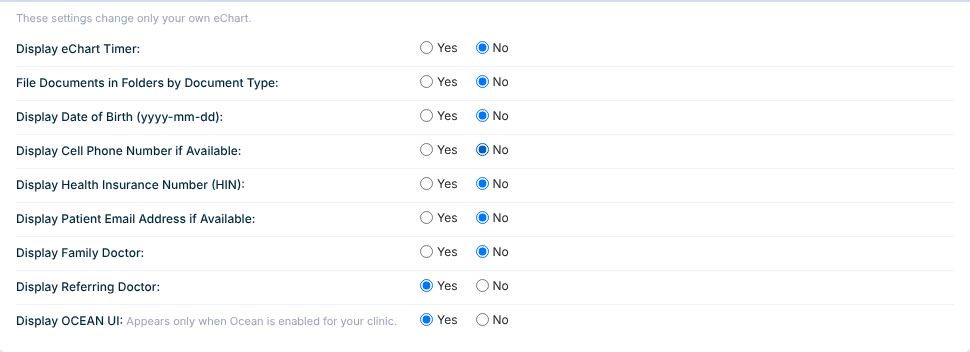
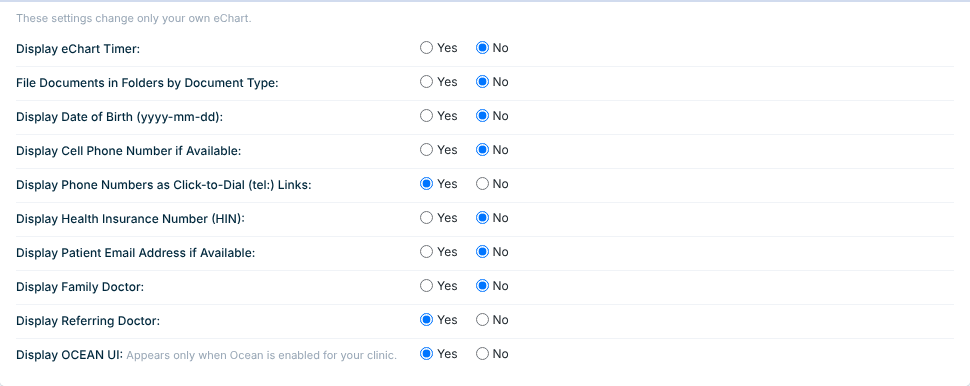
feat(echart): optional click-to-dial tel: links for header phone numbers
Adds "Display Phone Numbers as Click-to-Dial (tel:) Links" to
Preferences > eChart, after the cell-phone setting, defaulting to No
(property echart_phone_tel_links). When a provider turns it on, each phone
number in the eChart header bar is an <a href="tel:..."> link instead of a
copy button, so a click dials through the workstation's softphone or calling
app. Ids, icons and tooltips are unchanged; with no alternate number the
tooltip reads "Click to call".

EchartHeaderViewModel.Phone#telHref() builds the URI from the digits only,
keeps a leading +, drops the trailing * preferred mark, and passes an
extension typed as x123 / ext 123 / #123 as RFC 3966 ;ext=123 rather than
running it into the number.

The header's three phone blocks now share one button/link block. Unit,
JSP contract and Playwright checks cover the default (copy buttons) and the
flipped state (tel: link); labels are translated in all five bundles.

Part of #852 (the eChart header; the issue's other pages are not changed).

Claude-Session: https://claude.ai/code/session_014BbsKagGKuC9e9uVzXp5Sg

diff --git a/scripts/echart-display-preferences-playwright-checks.js b/scripts/echart-display-preferences-playwright-checks.js
@@ -20,13 +20,14 @@
  * reads the eChart section's defaults, opens the chart and asserts what each default shows, flips
  * every setting with the Yes/No radios and Save All, reads the rows back from the database, and opens
  * the chart again to assert that every surface followed: the header bar (date of birth or age, HIN,
- * cell or home phone, email), the note panel's timer, the Family Doctor and Referring Doctor panels at
- * the top of the left column, the Documents panel's folders, and the Ocean toolbar placeholder. It also
- * proves a GET carrying the settings is refused and changes nothing.
+ * cell or home phone, copy button or tel: click-to-dial link, email), the note panel's timer, the
+ * Family Doctor and Referring Doctor panels at the top of the left column, the Documents panel's
+ * folders, and the Ocean toolbar placeholder. It also proves a GET carrying the settings is refused
+ * and changes nothing.
  *
  * OWNED STATE. The FAKE-PW patient (runWorkflow) gets a HIN, phones, an email, a Referral Doctor, a
  * Family Doctor contact and two documents of different types; all are removed with it. The test
- * login's own nine eChart display rows are snapshotted first and restored exactly (ids included) in
+ * login's own eChart display rows are snapshotted first and restored exactly (ids included) in
  * cleanup, so a run leaves the provider's choices as it found them. Because those rows belong to the
  * shared test login, the check must not run beside another chart check.
  *
@@ -188,6 +189,9 @@ async function workflow(s) {
     h.assert((await page.locator('#patient-cell-phone').getAttribute('title')).includes(PATIENT.home),
       'The cell phone does not offer the home number as its tooltip');
     h.assert(await page.locator('#patient-phone').count() === 0, 'The header shows the home phone although a cell is preferred');
+    h.assert(await page.locator('#patient-cell-phone').evaluate((el) => el.tagName) === 'BUTTON'
+      && await page.locator('#header-top-row a[href^="tel:"]').count() === 0,
+    'The header phone is a tel: link although click-to-dial is off by default');
     h.assert(await text(page, '#patient-email') === PATIENT.email, 'The header does not show the email address');
     h.assert(await page.locator('#header a[href*="ViewCalculators"]').count() === 1, 'The header must offer exactly one calculators link');
     h.assert(await page.locator('#aTimer').count() === 1, 'The note panel has no timer with the timer on');
@@ -246,6 +250,9 @@ async function workflow(s) {
     h.assert((await text(page, '#patient-phone')).includes(PATIENT.home), 'The header does not fall back to the home phone');
     h.assert((await page.locator('#patient-phone').getAttribute('title')).includes(PATIENT.cell), 'The home phone does not offer the cell as its tooltip');
     h.assert(await page.locator('#patient-cell-phone').count() === 0, 'The header still shows the cell phone with it turned off');
+    h.assert(await page.locator('#patient-phone').evaluate((el) => el.tagName) === 'A'
+      && await page.locator('#patient-phone').getAttribute('href') === `tel:${PATIENT.home.replace(/\D/g, '')}`,
+    'The home phone is not a tel: click-to-dial link with click-to-dial turned on');
     h.assert(await page.locator('#patient-email, #patient-email-link').count() === 0, 'The header still shows the email with it turned off');
     h.assert(await page.locator('#aTimer, #toggleTimer').count() === 0, 'The note panel still shows the timer with it turned off');
     h.assert(await page.locator('#fDoc').count() === 0, 'The Family Doctor panel still shows with it turned off');

diff --git a/scripts/admin-fragment-navigation.test.js b/scripts/admin-fragment-navigation.test.js
@@ -75,9 +75,14 @@ test('calculator header navigation keeps patient attributes out of both popup an
 test('encounter copy controls use native non-submitting buttons for keyboard activation', () => {
   const source = fs.readFileSync(path.join(__dirname,
     '../src/main/webapp/WEB-INF/jsp/casemgmt/newEncounterHeader.jsp'), 'utf8');
-  for (const id of ['patient-hin', 'patient-phone', 'patient-cell-phone', 'patient-email']) {
+  // Phones share one copy button whose id comes from the phone's kind (patient-phone, patient-cell-phone,
+  // patient-work-phone); unless the provider turned on click-to-dial links, that button is what renders.
+  const phoneIds = [...source.matchAll(/<c:set var="phoneId" value="([^"]+)"\/>/g)].map((match) => match[1]);
+  assert.deepEqual(phoneIds.sort(), ['patient-cell-phone', 'patient-phone', 'patient-work-phone']);
+  const ids = { 'patient-hin': 'patient-hin', 'patient-email': 'patient-email', phone: '\\$\\{carlos:forHtmlAttribute\\(phoneId\\)\\}' };
+  for (const [label, id] of Object.entries(ids)) {
     const tag = source.match(new RegExp('<button[^>]*id="' + id + '"[^>]*>'));
-    assert.ok(tag, `Missing native copy button: ${id}`);
+    assert.ok(tag, `Missing native copy button: ${label}`);
     assert.match(tag[0], /type="button"/, 'Copy must never submit the surrounding form');
     assert.match(tag[0], /onclick="copyToClip\(/, 'Native keyboard activation must invoke the copy handler');
     assert.doesNotMatch(tag[0], /onkey(?:down|up)=/, 'Use native Enter/Space behavior without duplicate activation');

diff --git a/scripts/lib/echart-display-preferences.js b/scripts/lib/echart-display-preferences.js
@@ -13,12 +13,13 @@
  */
 const h = require('./playwright-harness');
 
-/** In the order the Preferences page lists them, with the defaults the alpha tester asked for. */
+/** In the order the Preferences page lists them, with the defaults the alpha tester asked for (click-to-dial: issue #852). */
 const ECHART_DISPLAY_SETTINGS = Object.freeze([
   { name: 'echart_show_timer', defaultValue: true },
   { name: 'echart_show_group_document_by_type', defaultValue: true },
   { name: 'echart_show_DOB', defaultValue: true },
   { name: 'echart_show_cell', defaultValue: true },
+  { name: 'echart_phone_tel_links', defaultValue: false },
   { name: 'echart_show_HIN', defaultValue: true },
   { name: 'echart_email_indicator', defaultValue: true },
   { name: 'echart_show_fam_doc_widget', defaultValue: true },
@@ -33,7 +34,7 @@ const NAME = /^[A-Za-z0-9_]+$/;
  *
  * @param {object} sql   the harness SQL runner
  * @param {string} provider the provider_no whose rows are touched
- * @param {string[]} [names] the settings in scope (default: all nine)
+ * @param {string[]} [names] the settings in scope (default: all of them)
  * @returns {{ snapshot: Array, restore: Function, clear: Function, set: Function, value: Function }}
  */
 function providerEchartDisplayRows(sql, provider, names = ECHART_DISPLAY_SETTINGS.map((setting) => setting.name)) {

diff --git a/src/test/java/io/github/carlos_emr/carlos/encounter/display/EchartDisplayPreferenceUnitTest.java b/src/test/java/io/github/carlos_emr/carlos/encounter/display/EchartDisplayPreferenceUnitTest.java
@@ -53,19 +53,20 @@ class EchartDisplayPreferenceUnitTest extends CarlosUnitTestBase {
     class Definitions {
 
         @Test
-        @DisplayName("should list the nine settings in the Preferences page order with OSCAR 19 key names")
+        @DisplayName("should list the settings in the Preferences page order with OSCAR 19 key names, click-to-dial after the cell")
         void shouldListSettings_inPreferencesPageOrder() {
             assertThat(Arrays.stream(EchartDisplayPreference.values()).map(EchartDisplayPreference::propertyName))
                     .containsExactly("echart_show_timer", "echart_show_group_document_by_type", "echart_show_DOB",
-                            "echart_show_cell", "echart_show_HIN", "echart_email_indicator",
+                            "echart_show_cell", "echart_phone_tel_links", "echart_show_HIN", "echart_email_indicator",
                             "echart_show_fam_doc_widget", "echart_show_ref_doc_widget", "echart_show_ocean");
         }
 
         @Test
-        @DisplayName("should default to on except for the Referring Doctor panel and Ocean")
-        void shouldDefaultToOn_exceptReferringDoctorAndOcean() {
+        @DisplayName("should default to on except for click-to-dial phone links, the Referring Doctor panel and Ocean")
+        void shouldDefaultToOn_exceptTelLinksReferringDoctorAndOcean() {
             for (EchartDisplayPreference preference : EchartDisplayPreference.values()) {
-                boolean expected = preference != EchartDisplayPreference.SHOW_REFERRING_DOCTOR
+                boolean expected = preference != EchartDisplayPreference.PHONE_TEL_LINKS
+                        && preference != EchartDisplayPreference.SHOW_REFERRING_DOCTOR
                         && preference != EchartDisplayPreference.SHOW_OCEAN;
                 assertThat(preference.defaultValue()).as(preference.name()).isEqualTo(expected);
             }
@@ -121,6 +122,7 @@ class EchartDisplayPreferenceUnitTest extends CarlosUnitTestBase {
             assertThat(preferences.groupDocumentsByType()).isTrue();
             assertThat(preferences.showDob()).isTrue();
             assertThat(preferences.showCell()).isTrue();
+            assertThat(preferences.phoneTelLinks()).isFalse();
             assertThat(preferences.showHin()).isTrue();
             assertThat(preferences.showEmail()).isTrue();
             assertThat(preferences.showFamilyDoctor()).isTrue();
@@ -136,6 +138,7 @@ class EchartDisplayPreferenceUnitTest extends CarlosUnitTestBase {
             stored.put("echart_show_DOB", "false");
             stored.put("echart_show_ref_doc_widget", "true");
             stored.put("echart_show_ocean", "true");
+            stored.put("echart_phone_tel_links", "true");
             stored.put("ProviderColour", "#123456");
 
             EchartDisplayPreferences preferences = EchartDisplayPreferences.fromStoredValues(stored);
@@ -144,6 +147,7 @@ class EchartDisplayPreferenceUnitTest extends CarlosUnitTestBase {
             assertThat(preferences.showDob()).isFalse();
             assertThat(preferences.showReferringDoctor()).isTrue();
             assertThat(preferences.showOcean()).isTrue();
+            assertThat(preferences.phoneTelLinks()).isTrue();
             assertThat(preferences.showHin()).isTrue();
         }
 

diff --git a/src/test/java/io/github/carlos_emr/carlos/encounter/display/EchartHeaderViewModelAssemblerUnitTest.java b/src/test/java/io/github/carlos_emr/carlos/encounter/display/EchartHeaderViewModelAssemblerUnitTest.java
@@ -33,6 +33,7 @@ import org.junit.jupiter.api.Nested;
 import org.junit.jupiter.api.Tag;
 import org.junit.jupiter.api.Test;
 import org.junit.jupiter.params.ParameterizedTest;
+import org.junit.jupiter.params.provider.CsvSource;
 import org.junit.jupiter.params.provider.NullAndEmptySource;
 import org.junit.jupiter.params.provider.ValueSource;
 
@@ -263,6 +264,57 @@ class EchartHeaderViewModelAssemblerUnitTest extends CarlosUnitTestBase {
         EchartHeaderViewModel header = assembler.assemble(VIEWER, demographic, EchartDisplayPreferences.defaults(), Locale.CANADA);
 
         assertThat(header.emailConsented()).isTrue();
+    }
+
+    @Nested
+    @DisplayName("click-to-dial phone links")
+    class TelLinks {
+
+        @Test
+        @DisplayName("should leave phones as copy buttons by default")
+        void shouldKeepCopyButtons_withDefaultSettings() {
+            assertThat(assembler.assemble(VIEWER, patient(), EchartDisplayPreferences.defaults(), Locale.CANADA).phoneTelLinks())
+                    .isFalse();
+        }
+
+        @Test
+        @DisplayName("should make phones tel: links when the provider turns the setting on")
+        void shouldMakeTelLinks_whenSettingOn() {
+            EchartDisplayPreferences preferences = EchartDisplayPreferences.fromStoredValues(Map.of("echart_phone_tel_links", "true"));
+
+            EchartHeaderViewModel header = assembler.assemble(VIEWER, patient(), preferences, Locale.CANADA);
+
+            assertThat(header.phoneTelLinks()).isTrue();
+            assertThat(header.phones()).extracting(Phone::telHref).containsExactly("tel:9055550100");
+        }
+
+        @ParameterizedTest(name = "{0} -> {1}")
+        @CsvSource(delimiter = '|', value = {
+                "905-555-0199          | tel:9055550199",
+                "(905) 555-0199*       | tel:9055550199",
+                "+1 905 555 0199       | tel:+19055550199",
+                "905.555.0199 x123     | tel:9055550199;ext=123",
+                "905-555-0199 ext. 45  | tel:9055550199;ext=45",
+                "905-555-0199 Ext 7*   | tel:9055550199;ext=7",
+                "416-555-0123 #22      | tel:4165550123;ext=22",
+        })
+        @DisplayName("should dial only the digits, keep a leading +, and split off an extension")
+        void shouldBuildDialableUri_fromRecordedNumber(String number, String expected) {
+            assertThat(new Phone(PhoneKind.HOME, number, null, "").telHref()).isEqualTo(expected);
+        }
+
+        @ParameterizedTest
+        @ValueSource(strings = {"", "   ", "*", "unknown", "x"})
+        @DisplayName("should give no link when there is nothing to dial")
+        void shouldReturnEmpty_whenNoDigits(String number) {
+            assertThat(new Phone(PhoneKind.CELL, number, null, "").telHref()).isEmpty();
+        }
+
+        @Test
+        @DisplayName("should give no link for a missing number")
+        void shouldReturnEmpty_whenNumberNull() {
+            assertThat(new Phone(PhoneKind.WORK, null, null, "").telHref()).isEmpty();
+        }
     }
 
     @Nested

diff --git a/src/main/java/io/github/carlos_emr/carlos/encounter/display/EchartHeaderViewModel.java b/src/main/java/io/github/carlos_emr/carlos/encounter/display/EchartHeaderViewModel.java
@@ -24,6 +24,8 @@ package io.github.carlos_emr.carlos.encounter.display;
 import io.github.carlos_emr.carlos.utility.SafeEncode;
 
 import java.util.List;
+import java.util.regex.Matcher;
+import java.util.regex.Pattern;
 
 /**
  * What the eChart header bar ({@code casemgmt/newEncounterHeader.jsp}) shows for one patient and
@@ -50,6 +52,7 @@ import java.util.List;
  * @param hin              health insurance number, {@code ""} when hidden or not on file
  * @param hinVersion       its version code, {@code ""} when none
  * @param phones           the phone numbers to show, in display order; may be empty
+ * @param phoneTelLinks    whether each phone is a {@code tel:} click-to-dial link rather than a copy button
  * @param email            email address, {@code ""} when hidden or not on file
  * @param emailConsented   whether the patient consented to email for care (the address is then a mailto link)
  * @param nextAppointment  the next appointment date, {@code ""} when none is booked
@@ -71,6 +74,7 @@ public record EchartHeaderViewModel(
         String hin,
         String hinVersion,
         List<Phone> phones,
+        boolean phoneTelLinks,
         String email,
         boolean emailConsented,
         String nextAppointment) {
@@ -113,5 +117,36 @@ public record EchartHeaderViewModel(
      * @param alternateNumber that number, {@code ""} when none
      */
     public record Phone(PhoneKind kind, String number, PhoneKind alternateKind, String alternateNumber) {
+
+        /** A trailing extension as people type it: "x123", "ext 123", "ext. 123", "#123". */
+        private static final Pattern EXTENSION = Pattern.compile("(?i)(?:ext\\.?|x|#)\\s*(\\d+)$");
+
+        /**
+         * The {@code tel:} URI that dials {@link #number()}, still to be encoded for its HTML attribute.
+         *
+         * <p>Only digits survive, with a leading {@code +} kept, so spaces, dashes, brackets and the
+         * trailing {@code *} preferred mark drop out. An extension is split off as RFC 3966's
+         * {@code ;ext=} rather than run into the number, which would dial the wrong line.</p>
+         *
+         * @return the URI, or {@code ""} when the number has no digits to dial
+         */
+        public String telHref() {
+            String main = number == null ? "" : number.strip();
+            if (main.endsWith("*")) {
+                main = main.substring(0, main.length() - 1).strip();
+            }
+            String extension = "";
+            Matcher matcher = EXTENSION.matcher(main);
+            if (matcher.find()) {
+                extension = matcher.group(1);
+                main = main.substring(0, matcher.start());
+            }
+            String digits = main.replaceAll("\\D", "");
+            if (digits.isEmpty()) {
+                return "";
+            }
+            return "tel:" + (main.startsWith("+") ? "+" : "") + digits
+                    + (extension.isEmpty() ? "" : ";ext=" + extension);
+        }
     }
 }

diff --git a/src/main/java/io/github/carlos_emr/carlos/encounter/display/EchartDisplayPreference.java b/src/main/java/io/github/carlos_emr/carlos/encounter/display/EchartDisplayPreference.java
@@ -29,11 +29,13 @@ package io.github.carlos_emr.carlos.encounter.display;
  * personal choice: each provider sets them in the "eChart" section of their Preferences, and the
  * value lives in the {@code property} table under {@link #propertyName()} for that provider.
  * The property names deliberately reuse OSCAR 19's key names so a clinic migrating from OSCAR
- * recognizes them; the OLIS link key is out of scope and is not carried over.</p>
+ * recognizes them; the OLIS link key is out of scope and is not carried over. {@link #PHONE_TEL_LINKS}
+ * is CARLOS's own addition (issue #852) and has no OSCAR 19 key.</p>
  *
  * <p>A provider who has never saved the section gets {@link #defaultValue()}: everything on
- * except the Referring Doctor widget and the Ocean toolbar, which a provider has to opt in to.
- * Values are stored as {@code "true"}/{@code "false"}, matching OSCAR 19's radio values.</p>
+ * except click-to-dial phone links, the Referring Doctor widget and the Ocean toolbar, which a
+ * provider has to opt in to. Values are stored as {@code "true"}/{@code "false"}, matching OSCAR 19's
+ * radio values.</p>
  *
  * @since 2026-10-16
  */
@@ -50,6 +52,12 @@ public enum EchartDisplayPreference {
 
     /** Prefer the cell phone number over the home number in the header when one is on file. */
     SHOW_CELL("echart_show_cell", true),
+
+    /**
+     * Render the header's phone numbers as {@code tel:} links, so a click dials through the
+     * workstation's softphone or calling app instead of copying the number. Not in OSCAR 19.
+     */
+    PHONE_TEL_LINKS("echart_phone_tel_links", false),
 
     /** Show the health insurance number in the header. */
     SHOW_HIN("echart_show_HIN", true),

diff --git a/src/test/java/io/github/carlos_emr/carlos/encounter/display/EchartDisplayJspContractUnitTest.java b/src/test/java/io/github/carlos_emr/carlos/encounter/display/EchartDisplayJspContractUnitTest.java
@@ -126,6 +126,23 @@ class EchartDisplayJspContractUnitTest extends CarlosUnitTestBase {
     }
 
     @Test
+    @DisplayName("should make the header phones tel: links only behind the click-to-dial setting")
+    void shouldGateTelLinks_onProviderSetting() throws IOException {
+        String header = source(HEADER_JSP);
+
+        assertThat(header)
+                .contains("<c:set var=\"phoneTelHref\" value=\"${echartHeader.phoneTelLinks ? phone.telHref() : ''}\"/>")
+                .contains("href=\"${carlos:forHtmlAttribute(phoneTelHref)}\"")
+                .contains("<fmt:message key=\"encounter.header.clickToCall\" var=\"clickToCallMsg\"/>")
+                .doesNotContain("href=\"tel:");
+        for (String locale : LOCALES) {
+            assertThat(bundle(locale).getProperty("encounter.header.clickToCall"))
+                    .as("encounter.header.clickToCall in oscarResources_%s", locale)
+                    .isNotBlank();
+        }
+    }
+
+    @Test
     @DisplayName("should show the timer only when the provider's setting allows it")
     void shouldGateTimer_onProviderSetting() throws IOException {
         String notes = source(CHART_NOTES_JSP);

diff --git a/src/main/java/io/github/carlos_emr/carlos/encounter/display/EchartHeaderViewModelAssembler.java b/src/main/java/io/github/carlos_emr/carlos/encounter/display/EchartHeaderViewModelAssembler.java
@@ -125,6 +125,7 @@ public class EchartHeaderViewModelAssembler {
                 hin.isEmpty() ? "" : StringUtils.trimToEmpty(demographic.getVer()),
                 selectPhones(demographic.getCellPhone(), demographic.getPhone(), demographic.getPhone2(),
                         preferences.showCell()),
+                preferences.phoneTelLinks(),
                 email,
                 !email.isEmpty() && Boolean.TRUE.equals(demographic.getConsentToUseEmailForCare()),
                 StringUtils.trimToEmpty(demographic.getNextAppointment()));

diff --git a/src/test/java/io/github/carlos_emr/carlos/encounter/display/EchartDisplayPreferenceResolverUnitTest.java b/src/test/java/io/github/carlos_emr/carlos/encounter/display/EchartDisplayPreferenceResolverUnitTest.java
@@ -67,7 +67,7 @@ class EchartDisplayPreferenceResolverUnitTest extends CarlosUnitTestBase {
 
     @Test
     @SuppressWarnings("unchecked")
-    @DisplayName("should read only the nine settings, in one query, for the given provider")
+    @DisplayName("should read only the eChart settings, in one query, for the given provider")
     void shouldReadOnlyEchartSettings_inOneQuery() {
         when(userPropertyDao.getProviderPropertiesByNames(eq("999998"), any()))
                 .thenReturn(Map.of("echart_show_HIN", "false"));

diff --git a/src/main/java/io/github/carlos_emr/carlos/encounter/display/EchartDisplayPreferenceResolver.java b/src/main/java/io/github/carlos_emr/carlos/encounter/display/EchartDisplayPreferenceResolver.java
@@ -34,7 +34,7 @@ import java.util.List;
  * {@link EchartDisplayPreference}, falling back to its default.
  *
  * <p>Read on every chart render (header, note panel, left navigation, Documents panel), so it reads
- * just the nine settings in one query rather than every property the provider owns.</p>
+ * just the eChart settings in one query rather than every property the provider owns.</p>
  *
  * @since 2026-10-16
  */

diff --git a/src/main/java/io/github/carlos_emr/carlos/encounter/display/EchartDisplayPreferences.java b/src/main/java/io/github/carlos_emr/carlos/encounter/display/EchartDisplayPreferences.java
@@ -83,6 +83,10 @@ public final class EchartDisplayPreferences {
         return isEnabled(EchartDisplayPreference.SHOW_CELL);
     }
 
+    public boolean phoneTelLinks() {
+        return isEnabled(EchartDisplayPreference.PHONE_TEL_LINKS);
+    }
+
     public boolean showHin() {
         return isEnabled(EchartDisplayPreference.SHOW_HIN);
     }
